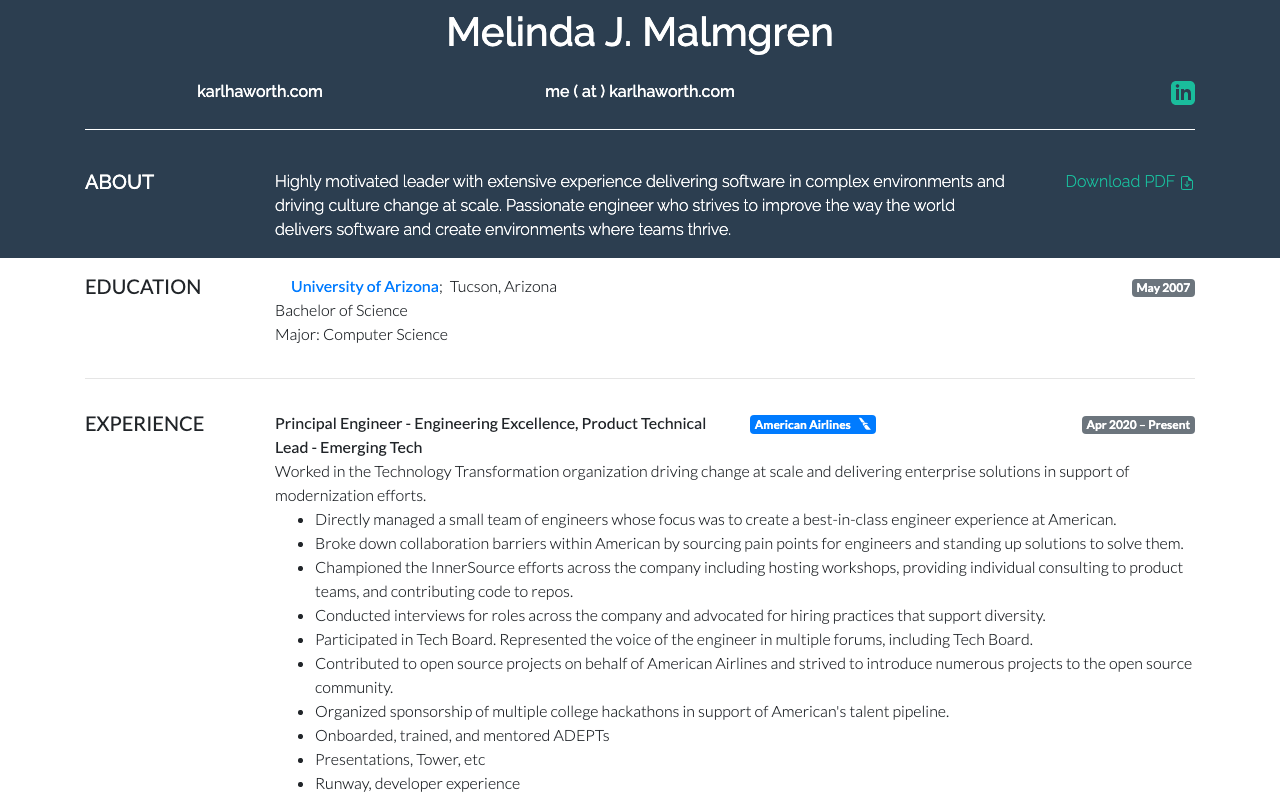
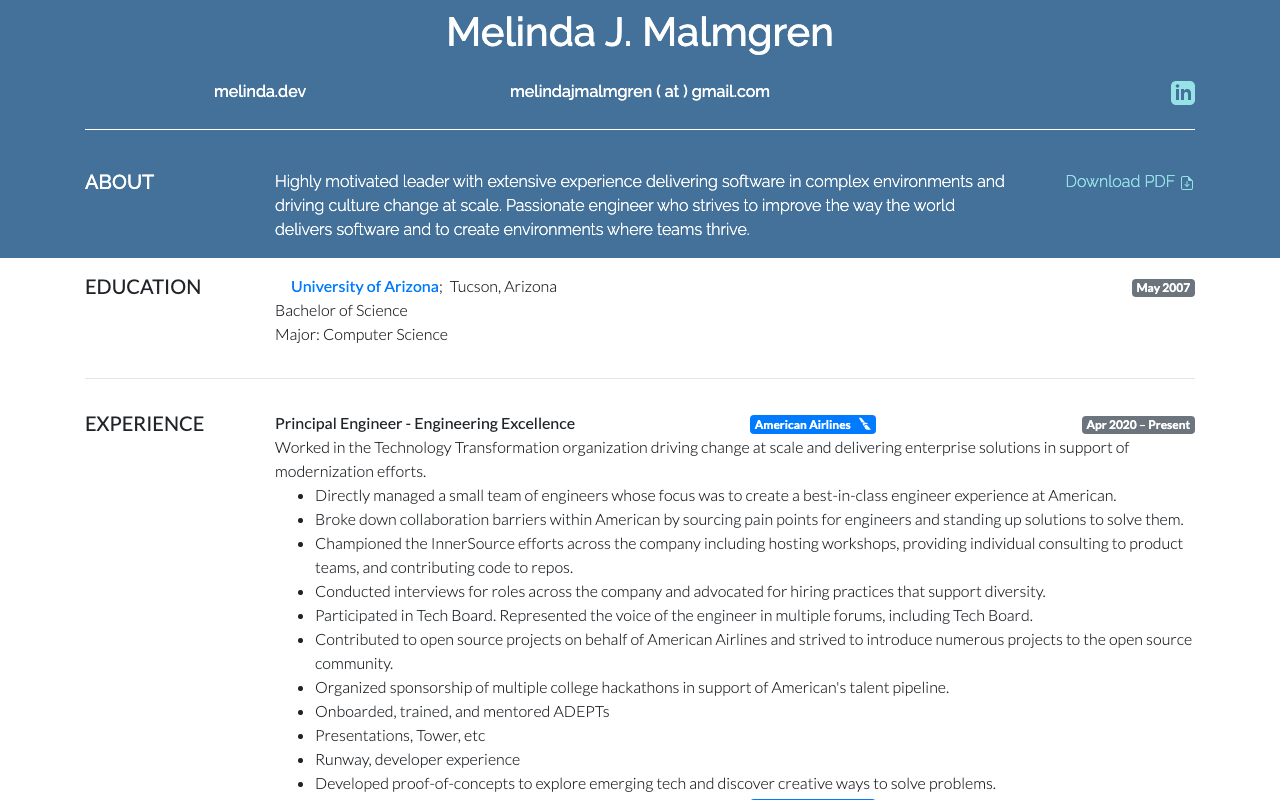
More tweaks

diff --git a/build/screenshot.js b/build/screenshot.js
@@ -27,8 +27,8 @@ module.exports = function () {
     await page._client.send("Emulation.clearDeviceMetricsOverride");
     await page.screenshot({ path: "resume.png" });
     await page.pdf({
-      path: "./dist/assets/karl_haworth_resume.pdf",
-      // path: "./src/assets/karl_haworth_resume.pdf",
+      path: "./dist/assets/resume.pdf",
+      // path: "./src/assets/resume.pdf",
       printBackground: true,
       format: "letter",
       margin: {
@@ -41,19 +41,18 @@ module.exports = function () {
 
     await browser.close();
 
-    const readPdf = fs.readFileSync(`./dist/assets/karl_haworth_resume.pdf`);
-    // const readPdf = fs.readFileSync(`./src/assets/karl_haworth_resume.pdf`);
+    const readPdf = fs.readFileSync(`./dist/assets/resume.pdf`);
+    // const readPdf = fs.readFileSync(`./src/assets/resume.pdf`);
     const pdfDoc = await PDFDocument.load(readPdf, {
       updateMetadata: true,
     });
     pdfDoc.setTitle("Melinda Malmgren - Resume");
-    pdfDoc.setAuthor("Karl J Haworth");
+    pdfDoc.setAuthor("Melinda Malmgren");
     pdfDoc.setProducer("KH PDF App 9000 🤖");
     pdfDoc.setSubject("Melinda Malmgren Resume");
-    pdfDoc.setCreator("karlhaworth.com (https://karlhaworth.com)");
     const pdfBytes = await pdfDoc.save();
-    fs.writeFileSync("./dist/assets/karl_haworth_resume.pdf", pdfBytes);
-    // fs.writeFileSync("./src/assets/karl_haworth_resume.pdf", pdfBytes);
+    fs.writeFileSync("./dist/assets/resume.pdf", pdfBytes);
+    // fs.writeFileSync("./src/assets/resume.pdf", pdfBytes);
     console.log("Wrote PDF");
   })();
 };

diff --git a/build/sharp.js b/build/sharp.js
@@ -26,11 +26,11 @@ module.exports = function () {
 
   sharp("./src/assets/karl_haworth.jpg")
     .resize({ height: 100 })
-    .toFile("./dist/assets/karl_haworth_resized.jpg");
+    .toFile("./dist/assets/Melinda-Malmgren-Headshot.jpg");
   sharp("./src/assets/karl_haworth.jpg")
     .resize({ height: 200 })
-    .toFile("./dist/assets/karl_haworth_resized@2x.jpg");
+    .toFile("./dist/assets/Melinda-Malmgren-Headshot@2x.jpg");
   sharp("./src/assets/karl_haworth.jpg")
     .resize({ height: 200 })
-    .toFile("./dist/assets/karl_haworth_resized@3x.jpg");
+    .toFile("./dist/assets/Melinda-Malmgren-Headshot@3x.jpg");
 };

diff --git a/src/_sass/main.scss b/src/_sass/main.scss
@@ -26,7 +26,7 @@ body {
 
 #header_wrap,
 #bottom_wrap {
-  background: #2c3e50;
+  background: #43719a;
   color: white;
 
   a {
@@ -188,4 +188,8 @@ footer {
     border-color: lighten(lightgray, 5%) !important;
     margin: 2px !important;
   }
+}
+
+.badge-success {
+  background-color: #96e2e6;
 }

diff --git a/src/_data/site.js b/src/_data/site.js
@@ -1,4 +1,4 @@
 module.exports = {
-  url: "https://karlhaworth.com",
+  url: "https://melinda.dev",
   buildYear: new Date().getFullYear(),
 };

diff --git a/src/_sass/_variables.scss b/src/_sass/_variables.scss
@@ -5,4 +5,4 @@ $red: #dc3545;
 
 /* custom vars */
 $custom-font-size: 20px;
-$link-green: #1abc9c;
+$link-green: #96e2e6;
